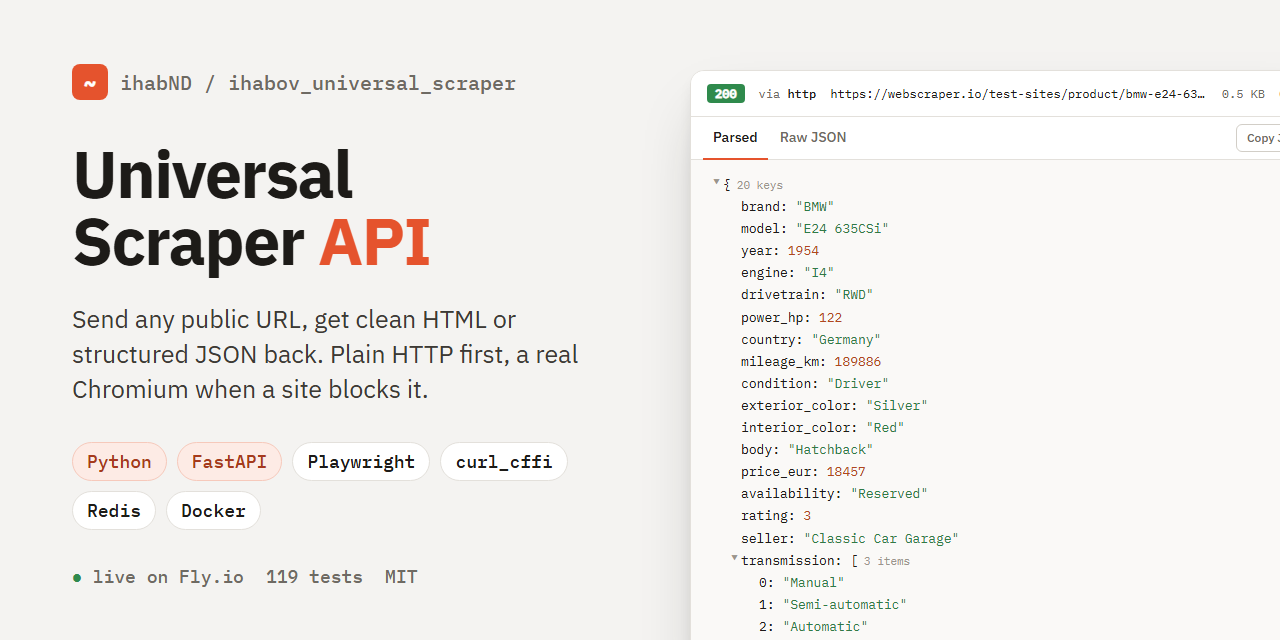
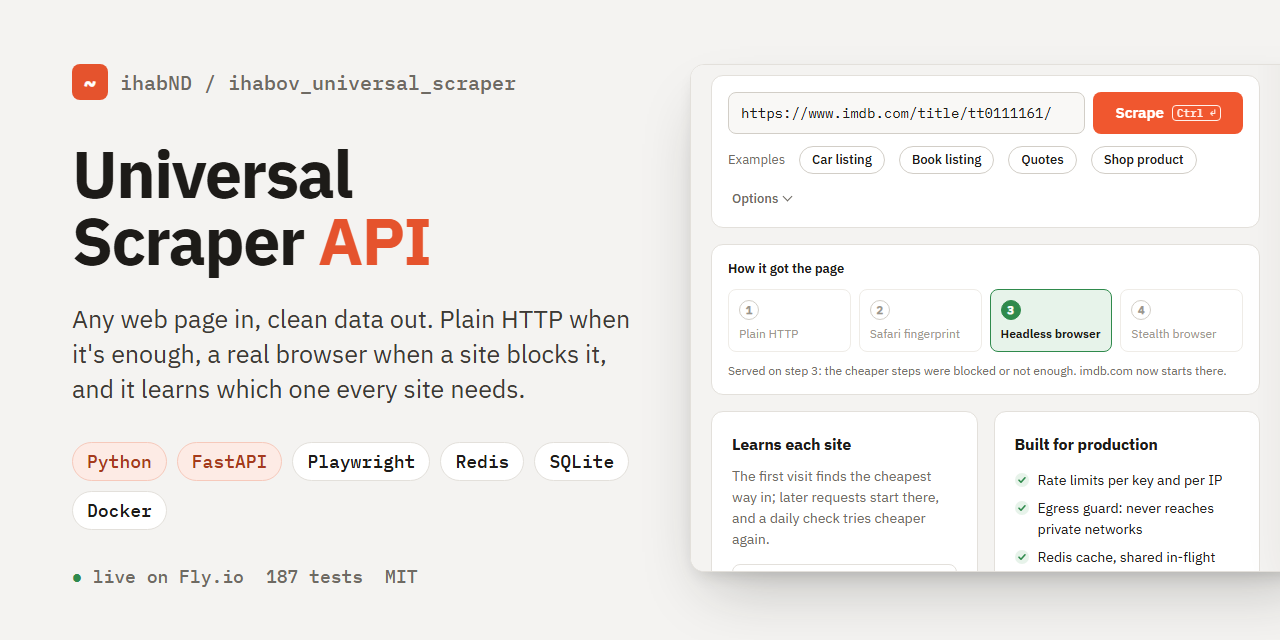
Show the home page and its fetcher ladder in the README demo and social card

diff --git a/README.md b/README.md
@@ -4,7 +4,7 @@ A web-scraping API: send it any public URL and get back clean HTML, or structure
 
 [![tests](https://github.com/ihabND/ihabov_universal_scraper/actions/workflows/tests.yml/badge.svg)](https://github.com/ihabND/ihabov_universal_scraper/actions/workflows/tests.yml) ![Python](https://img.shields.io/badge/python-3.12-blue) ![FastAPI](https://img.shields.io/badge/FastAPI-009688) ![Redis](https://img.shields.io/badge/Redis-cache%20%26%20quotas-DC382D) ![license](https://img.shields.io/badge/license-MIT-lightgrey)
 
-![The web workbench (at /workbench) turning a car listing page into structured JSON](docs/images/demo.gif)
+![The home page scraping an IMDb title: plain HTTP is bot-checked, so step 3 of the ladder, the headless browser, serves it](docs/images/demo.gif)
 
 **Live demo: [ihabov-universal-scraper.fly.dev](https://ihabov-universal-scraper.fly.dev)**. The home page scrapes the example sites live with a public test key, no sign-up needed; other pages need a full API key. The server scales to zero when idle, so the first request after a quiet spell takes a few seconds while it starts.
 
